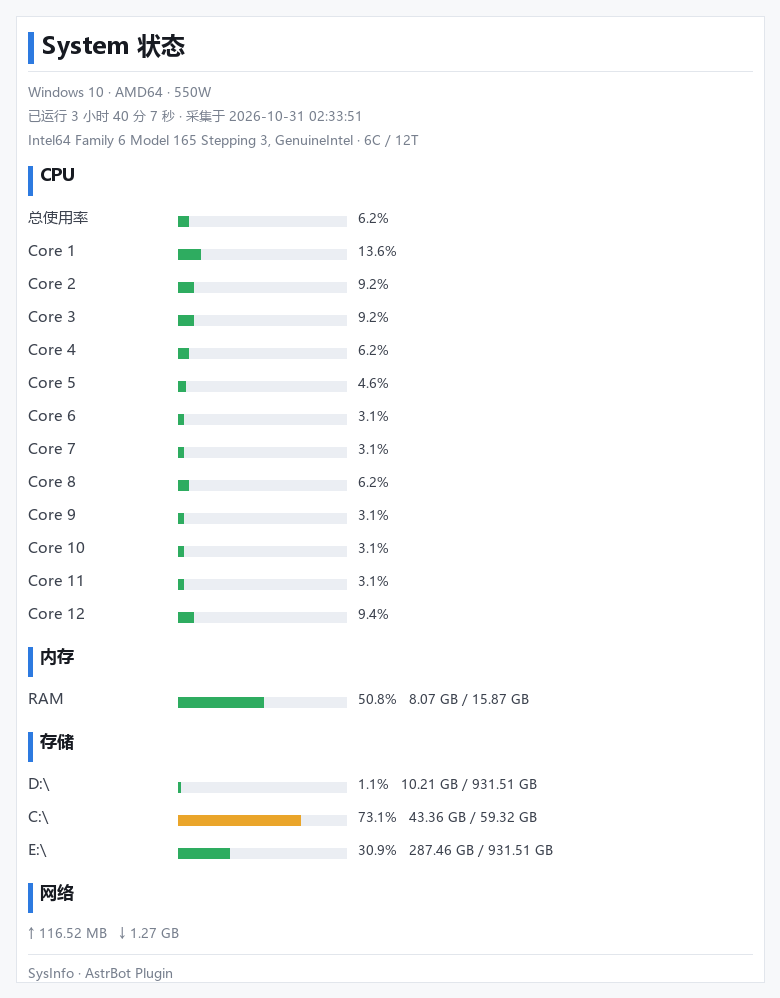
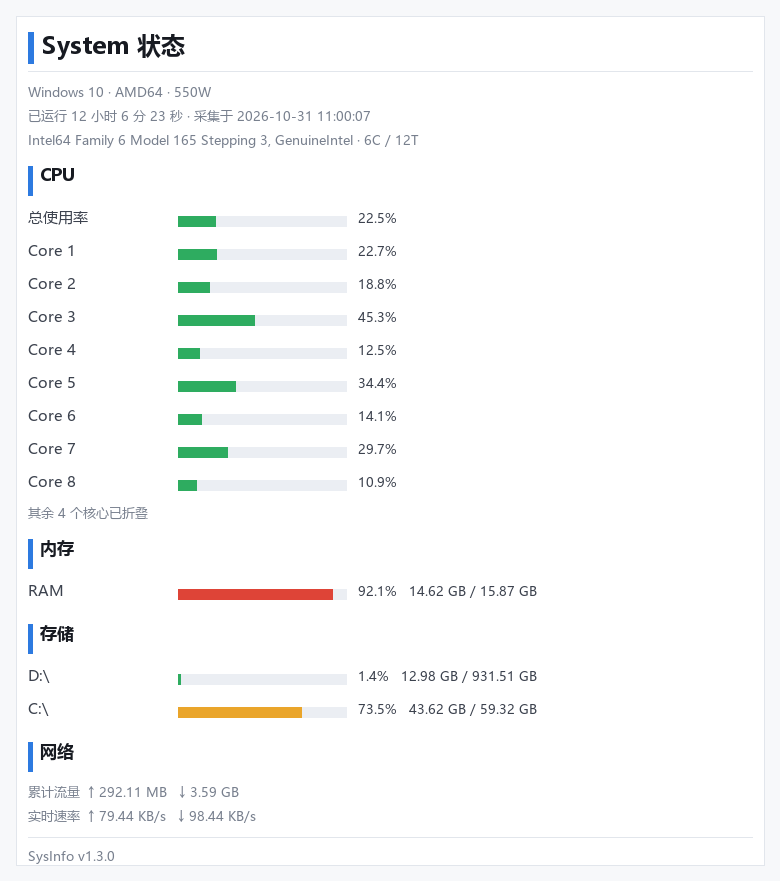
feat: v1.3.0 版本号页脚与网络总流量统计
- 卡片页脚改为 SysInfo <插件版本> · AstrBot <AstrBot 版本>，版本取不到时自动省略
- 网络改为累计总上传/总下载，并新增实时上下行速率（复用 CPU 采样窗口，不额外耗时）
- 新增 show_net_speed 配置项
- 紧凑模式补充网络总流量行
- register 元信息同步为作者 xuehaozhi、版本 v1.3.0

diff --git a/sysinfo_core.py b/sysinfo_core.py
@@ -21,6 +21,51 @@ NA = "N/A"
 BAR_WIDTH = 10
 _SIZE_UNITS = ("B", "KB", "MB", "GB", "TB", "PB")
 
+# 插件版本号，与 metadata.yaml 的 version 保持一致
+PLUGIN_VERSION = "v1.3.0"
+
+
+def detect_astrbot_version() -> str:
+    """探测当前运行的 AstrBot 版本号。
+
+    AstrBot 没有稳定的公开版本常量，因此按可靠性依次尝试：
+    1. 包元数据（pip/官方镜像安装，最准）
+    2. astrbot.core.version 里的 __version__ / VERSION
+    3. astrbot 包自身的 __version__
+    全都取不到时返回 "unknown"，不抛异常。
+    """
+    try:
+        from importlib.metadata import version as _pkg_version
+
+        return str(_pkg_version("astrbot")).strip() or "unknown"
+    except Exception:
+        pass
+
+    for mod_name, attrs in (
+        ("astrbot", ("__version__", "VERSION")),
+        ("astrbot.core.config.default", ("VERSION",)),
+        ("astrbot.core.version", ("__version__", "VERSION", "version")),
+    ):
+        try:
+            mod = __import__(mod_name, fromlist=["*"])
+        except Exception:
+            continue
+        for attr in attrs:
+            value = getattr(mod, attr, None)
+            if isinstance(value, str) and value.strip():
+                return value.strip()
+    return "unknown"
+
+
+_ASTRBOT_VERSION_CACHE: list[str] = []
+
+
+def _astrbot_version_cached() -> str:
+    """带缓存的版本探测，避免每次采集都重复 import 查找。"""
+    if not _ASTRBOT_VERSION_CACHE:
+        _ASTRBOT_VERSION_CACHE.append(detect_astrbot_version())
+    return _ASTRBOT_VERSION_CACHE[0]
+
 
 # --------------------------------------------------------------------------
 # 基础工具
@@ -93,23 +138,40 @@ def _uptime_str(boot_ts: float, en: bool = False) -> str:
 # --------------------------------------------------------------------------
 # 采集
 # --------------------------------------------------------------------------
-def _sample_cpu(interval: float) -> tuple[float | None, list[float]]:
-    """采样 CPU 使用率。
+def _sample(interval: float, with_net_speed: bool = True) -> dict[str, Any]:
+    """一次性采样 CPU 与网络速率。
 
-    psutil.cpu_percent 是“两次调用之间的差值”，所以先各调用一次建立基准，
-    睡眠 interval 后再取值，得到的是该窗口内的平均使用率。
+    psutil 的 CPU 使用率是“两次调用之间的差值”，所以先各调用一次建立基准，
+    睡眠 interval 后再取值。网络速率同样需要前后两次读数相减——
+    这里共用同一次 sleep，不会因为多了网速统计就双倍等待。
     """
+    out: dict[str, Any] = {
+        "cpu_total": None,
+        "per_core": [],
+        "up_speed": None,
+        "down_speed": None,
+        "window": None,
+    }
     if psutil is None:
-        return None, []
+        return out
     try:
         psutil.cpu_percent(interval=None)
         psutil.cpu_percent(interval=None, percpu=True)
+        c1 = psutil.net_io_counters() if with_net_speed else None
+        t1 = time.time()
         time.sleep(max(0.0, interval))
-        total = psutil.cpu_percent(interval=None)
-        per_core = psutil.cpu_percent(interval=None, percpu=True)
-        return total, list(per_core)
+        c2 = psutil.net_io_counters() if with_net_speed else None
+        t2 = time.time()
+        out["cpu_total"] = psutil.cpu_percent(interval=None)
+        out["per_core"] = list(psutil.cpu_percent(interval=None, percpu=True))
+        if c1 and c2:
+            window = max(t2 - t1, 1e-6)
+            out["up_speed"] = max(0.0, (c2.bytes_sent - c1.bytes_sent) / window)
+            out["down_speed"] = max(0.0, (c2.bytes_recv - c1.bytes_recv) / window)
+            out["window"] = window
     except Exception:
-        return None, []
+        pass
+    return out
 
 
 # 伪文件系统：这些不是真实磁盘，占满了视图也毫无意义
@@ -196,6 +258,7 @@ def collect(options: dict[str, Any] | None = None) -> dict[str, Any]:
     show_net = bool(opt.get("show_net", True))
     show_temp = bool(opt.get("show_temp", True))
     show_top_proc = bool(opt.get("show_top_process", False))
+    show_net_speed = bool(opt.get("show_net_speed", True))
     max_disks = int(opt.get("max_disks", 3) or 3)
     disk_paths = opt.get("disk_paths") or []
     temp_limit = int(opt.get("max_temp_entries", 3) or 3)
@@ -205,10 +268,14 @@ def collect(options: dict[str, Any] | None = None) -> dict[str, Any]:
         "ok": psutil is not None,
         "collected_at": datetime.now().strftime("%Y-%m-%d %H:%M:%S"),
         "sample_interval": interval,
+        "plugin_version": str(opt.get("plugin_version") or PLUGIN_VERSION),
+        "astrbot_version": str(opt.get("astrbot_version") or _astrbot_version_cached()),
     }
 
-    # ---- CPU ----
-    cpu_total, per_core = _sample_cpu(interval) if show_per_core or True else (None, [])
+    # ---- CPU + 网络速率（共用同一次采样窗口）----
+    # 采样时长为 0 时拿不到有意义的速率，直接跳过
+    sample = _sample(interval, with_net_speed=show_net and show_net_speed and interval > 0)
+    cpu_total, per_core = sample["cpu_total"], sample["per_core"]
     cores_physical = safe(lambda: psutil.cpu_count(logical=False), None)
     cores_logical = safe(lambda: psutil.cpu_count(logical=True), None)
     freq = safe(lambda: psutil.cpu_freq(), None)
@@ -282,12 +349,18 @@ def collect(options: dict[str, Any] | None = None) -> dict[str, Any]:
     data["disk"] = disks
 
     # ---- 网络 ----
+    # sent/recv 是自开机起的累计总流量；up_speed/down_speed 是采样窗口内的实时速率
     net = None
     if show_net:
         counters = safe(lambda: psutil.net_io_counters(), None)
         net = {
             "sent": getattr(counters, "bytes_sent", None) if counters else None,
             "recv": getattr(counters, "bytes_recv", None) if counters else None,
+            "packets_sent": getattr(counters, "packets_sent", None) if counters else None,
+            "packets_recv": getattr(counters, "packets_recv", None) if counters else None,
+            "up_speed": sample.get("up_speed"),
+            "down_speed": sample.get("down_speed"),
+            "window": sample.get("window"),
         }
     data["net"] = net
 
@@ -367,6 +440,12 @@ def render_concise(data: dict[str, Any]) -> str:
     else:
         lines.append(f"-存储：{NA} 占用 / {NA}")
 
+    net = data.get("net")
+    if net and (net.get("sent") is not None or net.get("recv") is not None):
+        lines.append(
+            f"-网络：总上传 {human_bytes(net.get('sent'))} / 总下载 {human_bytes(net.get('recv'))}"
+        )
+
     return "\n".join(lines)
 
 
@@ -436,7 +515,14 @@ def render_detailed(data: dict[str, Any]) -> str:
     net = data.get("net")
     if net and (net.get("sent") is not None or net.get("recv") is not None):
         lines.append("────────────────")
-        lines.append(f"网络  ↑ {human_bytes(net.get('sent'))}   ↓ {human_bytes(net.get('recv'))}")
+        lines.append(
+            f"网络  总上传 {human_bytes(net.get('sent'))}   总下载 {human_bytes(net.get('recv'))}"
+        )
+        if net.get("up_speed") is not None:
+            lines.append(
+                f"     实时 ↑ {human_bytes(net.get('up_speed'))}/s"
+                f"   ↓ {human_bytes(net.get('down_speed'))}/s"
+            )
 
     # 温度
     if data.get("temp"):
@@ -635,6 +721,8 @@ def render_report_image(options: dict[str, Any] | None = None, save_path: str | 
     T_MEM = L("内存", "Memory")
     T_DISK = L("存储", "Disk")
     T_NET = L("网络", "Network")
+    T_NET_TOTAL = L("累计流量", "Total Transfer")
+    T_NET_SPEED = L("实时速率", "Current Speed")
     T_TEMP = L("温度", "Temperature")
     T_HIDDEN = L("其余 {} 个核心已折叠", "{} more cores omitted")
 
@@ -694,7 +782,24 @@ def render_report_image(options: dict[str, Any] | None = None, save_path: str | 
     if data.get("net"):
         n = data["net"]
         add_row("section", text=T_NET)
-        add_row("meta", text=f"↑ {human_bytes(n.get('sent'))}   ↓ {human_bytes(n.get('recv'))}")
+        # 累计流量：自开机以来的总上传/总下载
+        add_row(
+            "meta",
+            text=(
+                f"{T_NET_TOTAL}  "
+                f"↑ {human_bytes(n.get('sent'))}   ↓ {human_bytes(n.get('recv'))}"
+            ),
+        )
+        # 实时速率：采样窗口内的瞬时速度
+        if n.get("up_speed") is not None or n.get("down_speed") is not None:
+            add_row(
+                "meta",
+                text=(
+                    f"{T_NET_SPEED}  "
+                    f"↑ {human_bytes(n.get('up_speed'))}/s   "
+                    f"↓ {human_bytes(n.get('down_speed'))}/s"
+                ),
+            )
     if data.get("temp"):
         add_row("section", text=T_TEMP)
         for chip, label, cur in data["temp"]:
@@ -756,7 +861,11 @@ def render_report_image(options: dict[str, Any] | None = None, save_path: str | 
 
     y += 6
     draw.line([x, y, W - PAD, y], fill=LINE, width=1)
-    draw.text((x, y + 10), "SysInfo · AstrBot Plugin", font=f_small, fill=SUB)
+    # 页脚：SysInfo 版本号 · AstrBot 版本号（取不到 AstrBot 版本时只显示前者）
+    pv = str(data.get("plugin_version") or PLUGIN_VERSION)
+    av = str(data.get("astrbot_version") or "").strip()
+    footer = f"SysInfo {pv} · AstrBot {av}" if av and av.lower() != "unknown" else f"SysInfo {pv}"
+    draw.text((x, y + 10), footer, font=f_small, fill=SUB)
 
     if save_path is None:
         import tempfile

diff --git a/main.py b/main.py
@@ -13,10 +13,22 @@ from astrbot.api.star import Context, Star, register
 
 # 兼容 AstrBot 以模块 / 文件路径两种方式加载本插件
 try:
-    from .sysinfo_core import build_report, collect, render_report_image, render_text
+    from .sysinfo_core import (
+        PLUGIN_VERSION,
+        build_report,
+        collect,
+        render_report_image,
+        render_text,
+    )
 except ImportError:  # pragma: no cover
     sys.path.insert(0, os.path.dirname(os.path.abspath(__file__)))
-    from sysinfo_core import build_report, collect, render_report_image, render_text
+    from sysinfo_core import (  # type: ignore[no-redef]
+        PLUGIN_VERSION,
+        build_report,
+        collect,
+        render_report_image,
+        render_text,
+    )
 
 # 兼容 LLM 工具注册：新版为 filter.llm_tool，旧版为独立的 llm_tool
 _llm_tool = getattr(filter, "llm_tool", None)
@@ -29,9 +41,9 @@ if _llm_tool is None:  # pragma: no cover - 旧版本 AstrBot
 
 @register(
     "astrbot_plugin_sysinfo",
-    "WorkBuddy",
+    "xuehaozhi",
     "读取服务器实时运行状态并输出：CPU 总使用率、每核心使用率、内存占用、磁盘存储等",
-    "1.0.0",
+    PLUGIN_VERSION,
 )
 class SysInfoPlugin(Star):
     def __init__(self, context: Context, config=None):
@@ -55,6 +67,7 @@ class SysInfoPlugin(Star):
             "disk_paths": self._opt("disk_paths", []),
             "max_disks": self._opt("max_disks", 3),
             "show_net": self._opt("show_net", True),
+            "show_net_speed": self._opt("show_net_speed", True),
             "show_temp": self._opt("show_temp", True),
             "max_temp_entries": self._opt("max_temp_entries", 3),
             "show_top_process": self._opt("show_top_process", False),

diff --git a/README.md b/README.md
@@ -73,6 +73,7 @@ pip install -r data/plugins/astrbot_plugin_sysinfo/requirements.txt
 ...
 -RAM：48.9% 使用（7.76 GB / 15.87 GB）
 -存储[C:\]：73.1% 占用（43.35 GB / 59.32 GB）
+-网络：总上传 291.32 MB / 总下载 3.59 GB
 ```
 
 配置 `report_style=detailed` 时（默认，带进度条和附加模块）：
@@ -87,7 +88,13 @@ CPU 总使用率    2.9%  ░░░░░░░░░░
   Core 1       3.1%  ░░░░░░░░░░
 RAM           47.0%  █████░░░░░  7.46 GB / 15.87 GB
 存储 C:\     73.1%  ███████░░░  43.34 GB / 59.32 GB
+────────────────
+网络  总上传 279.22 MB   总下载 3.54 GB
+     实时 ↑ 3.38 KB/s   ↓ 3.23 KB/s
 ```
+
+图片卡片底部会显示 `SysInfo <插件版本> · AstrBot <AstrBot 版本>`，方便排查"到底跑的是哪一版"。
+AstrBot 版本取不到时该段自动省略，不会显示 `unknown`。
 
 ---
 
@@ -168,6 +175,7 @@ WebUI → 插件 → 系统状态 → 配置，或直接编辑 `data/config/astr
 | `disk_paths` | list | `[]` | 指定监控的挂载点，留空自动检测。Linux 填 `/`，Windows 填 `C:\` |
 | `max_disks` | int | `3` | 最多显示多少分区 |
 | `show_net` | bool | `true` | 显示网络累计收发流量 |
+| `show_net_speed` | bool | `true` | 显示网络实时上下行速率（复用 CPU 采样窗口，不额外耗时） |
 | `show_temp` | bool | `true` | 显示温度（需硬件/系统支持，多数 Linux 可用） |
 | `max_temp_entries` | int | `3` | 最多显示几条温度数据 |
 | `show_top_process` | bool | `false` | 显示内存占用 Top 进程 |
